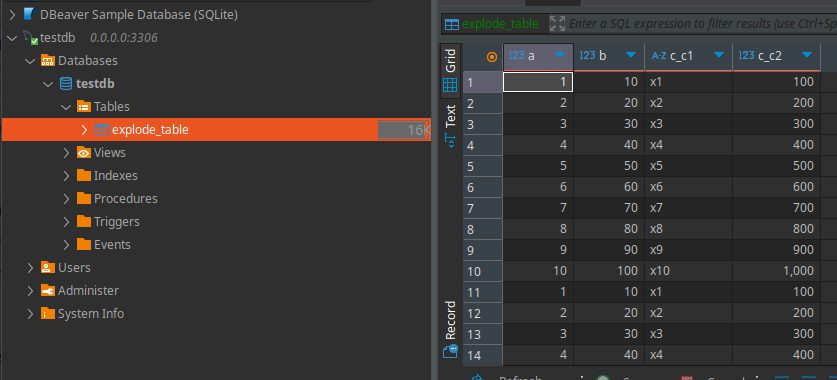
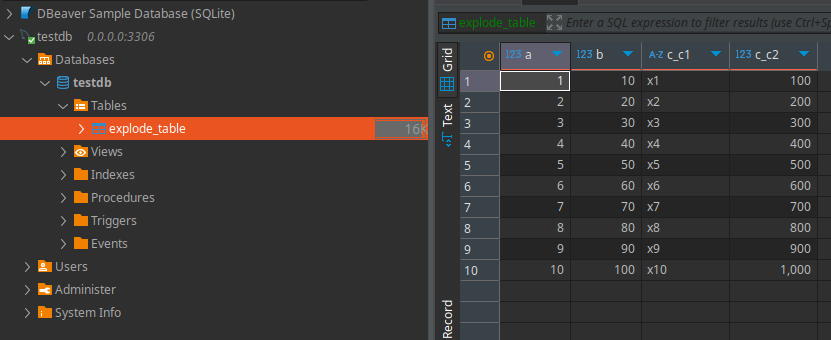
hot fix

diff --git a/Spark_MongoDB/spark_submit.py b/Spark_MongoDB/spark_submit.py
@@ -34,17 +34,7 @@ df_flat = df.withColumn("c", explode(col("c"))) \
             .withColumn("c_c1", col("c.c1")) \
             .withColumn("c_c2", col("c.c2")) \
             .select("a", "b", "c_c1", "c_c2")
-
-window_spec = Window.partitionBy("a", "b").orderBy("c_c1")
-
-
-df_flat = df_flat.withColumn("row_num", row_number().over(window_spec)) \
-                   .filter(col("row_num") == 1) \
-                   .drop("row_num")
-
 df_flat.show()
-
-
 df_flat.printSchema()
 
 

diff --git a/Spark_MongoDB/README.md b/Spark_MongoDB/README.md
@@ -83,3 +83,54 @@ Son aşama olarak spark-submiter ile [spark_submit.py](/Spark_MongoDB/spark_subm
 * **5-)** spark_submit.py içindeki işlemler ile MongoDB verilerini explode edip MySQL deki tabloya verilerin yazılması
 
 ## Mimariyi inceleme ve açıklamalar
+
+### **Volume ve network**
+
+```yaml
+networks:
+  spark-network:
+    driver: bridge
+
+volumes:
+  mongo_data:
+    driver: local
+
+  mysql_data_spark:
+    driver: local
+```
+
+Yukarıdaki yaml dosyasında okunacağı üzere tüm servislerin sağlıklı çalışabilmesi için spark-network adında bir network tanımlanmıştır.
+
+mysql servisi içinde mysql_data_spark adında bir volume tanımlanmıştır, böylece mysql servisi restart olsa bile tablolar ve veriler kaybolmayacaktır. Aynı işlem mongo_data adındaki volume ile MongoDB'ye de sağlanmıştır.
+
+### **MySQL**
+
+```yaml
+mysql_db_spark:
+    image: mysql:8.0
+    container_name: mysql_db_spark
+    restart: always
+    command: --default-authentication-plugin=mysql_native_password --server-id=1 --log-bin=mysql-bin --binlog-format=ROW --binlog-row-image=FULL
+    environment:
+      MYSQL_ROOT_PASSWORD: root
+      MYSQL_DATABASE: testdb
+      MYSQL_USER: sahibinden
+      MYSQL_PASSWORD: sahibinden
+    ports:
+      - "3306:3306"
+    volumes:
+      - mysql_data_spark:/var/lib/mysql
+      - ./init.sql:/docker-entrypoint-initdb.d/init.sql:ro
+    networks:
+      - spark-network
+```
+
+Yukarıda mysql servisinin yapılandırmasını görebilirsiniz. Mysql docker imajını kullanarak 3306 portundan servisi ayağa kaldırmaktadır.
+
+- MySQL host: 0.0.0.0:3306
+- MySQL DB: testdb
+- MySQL Root user: root
+- MySQL Root password: root
+- MySQL user: sahibinden
+- MySQL password: sahibinden
+
